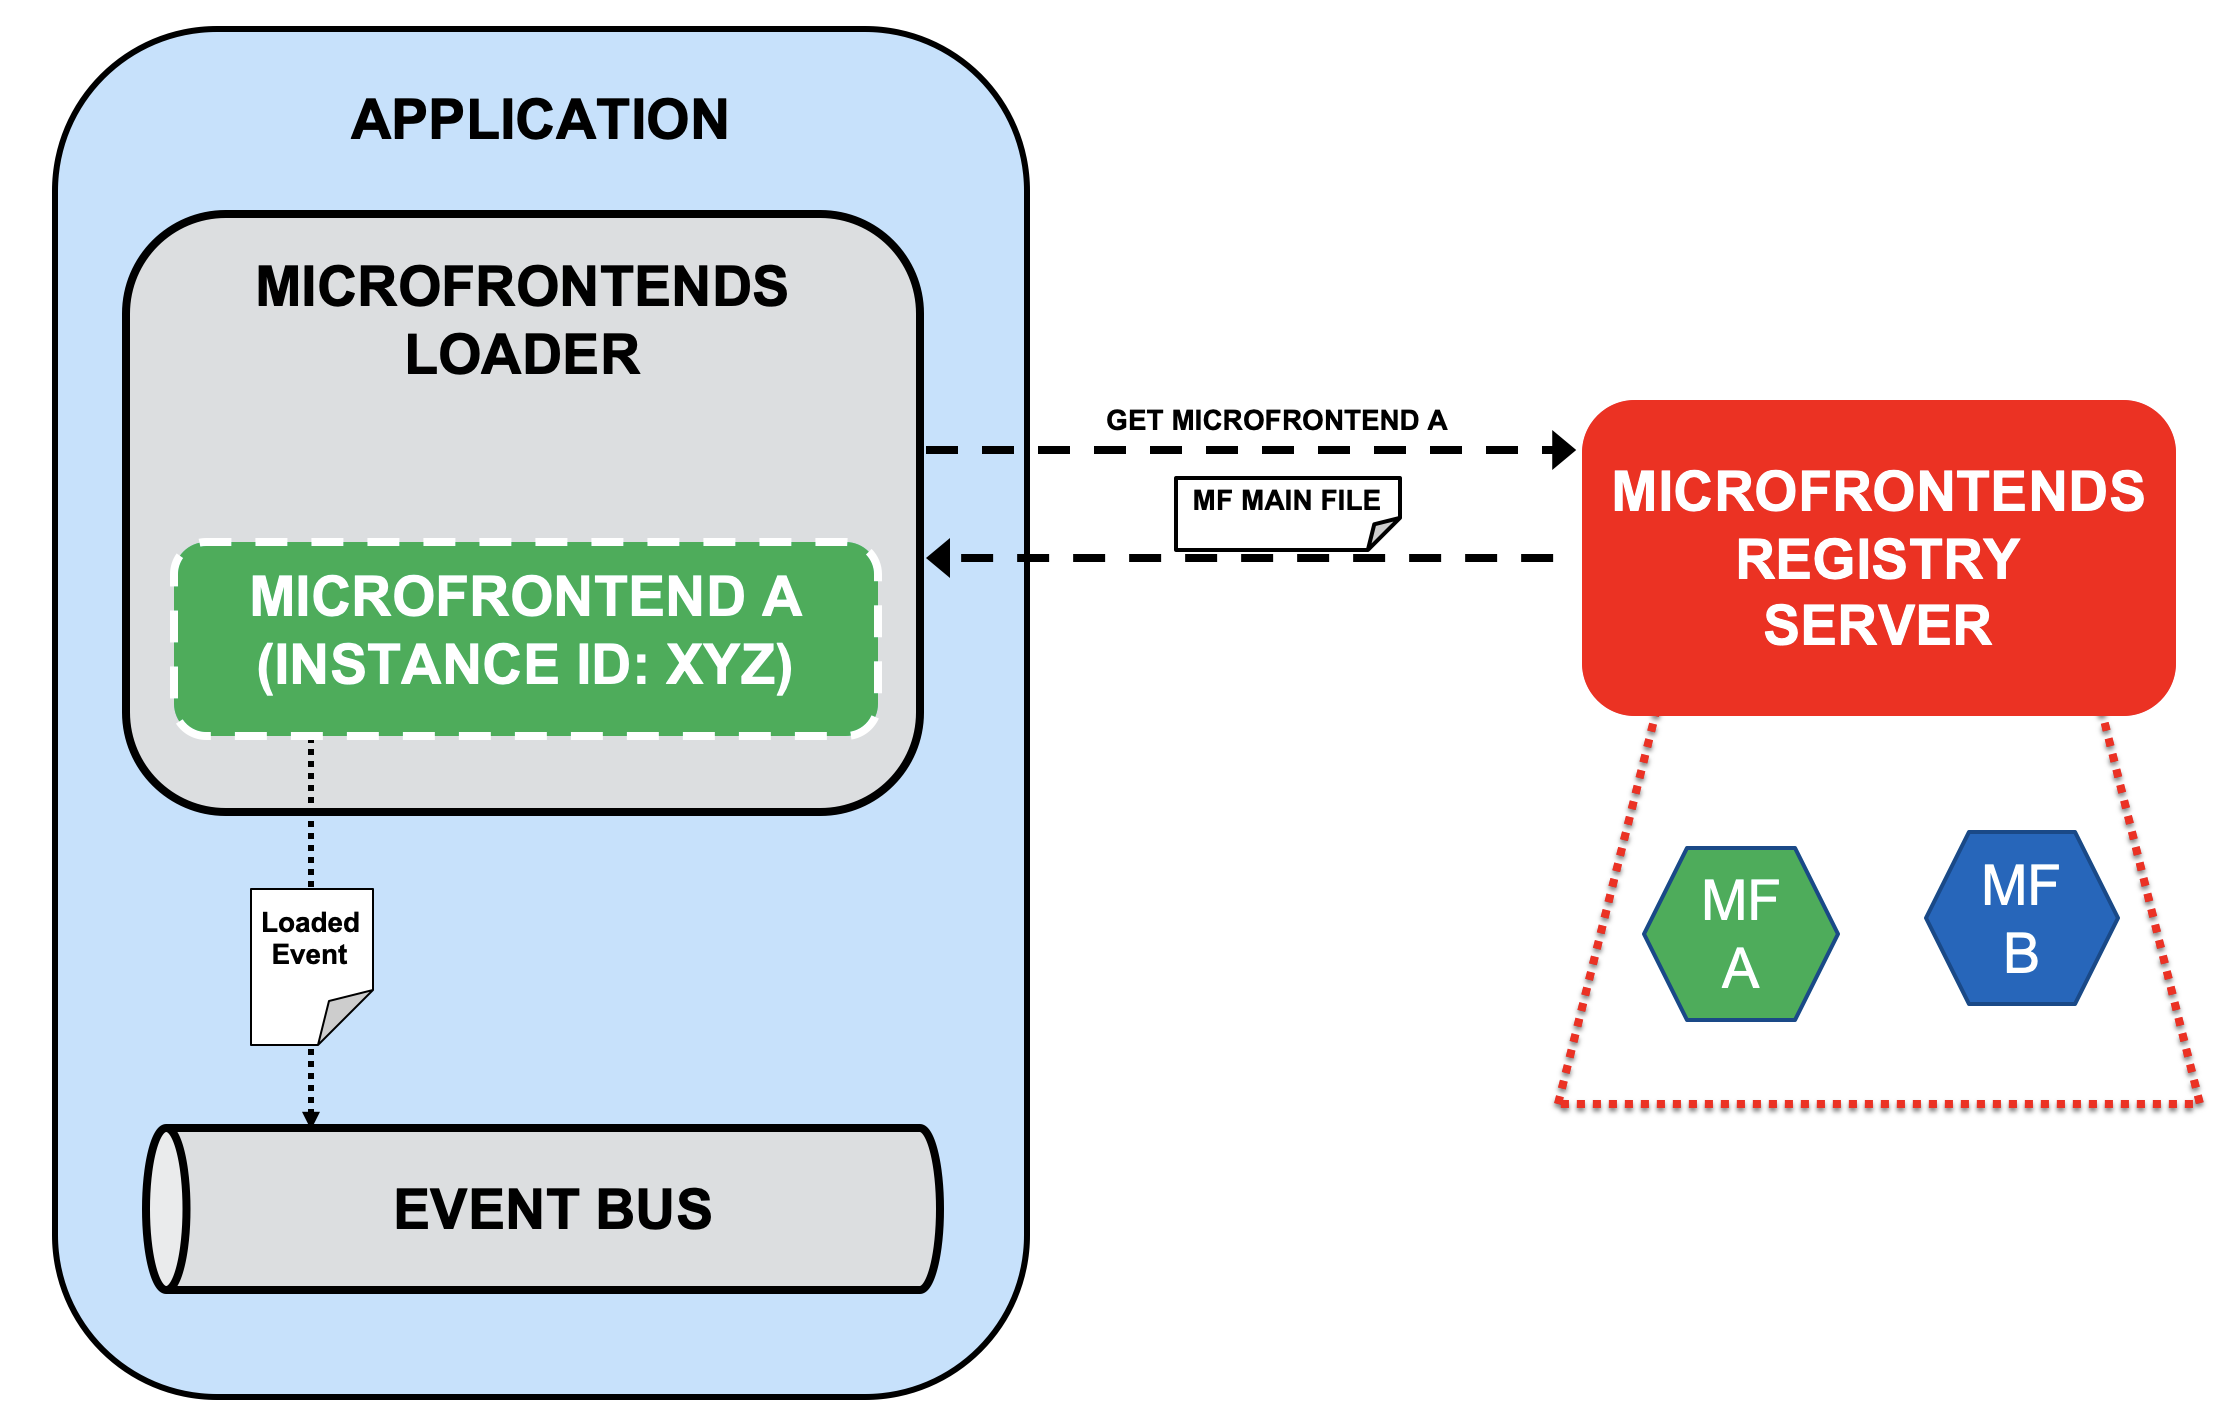
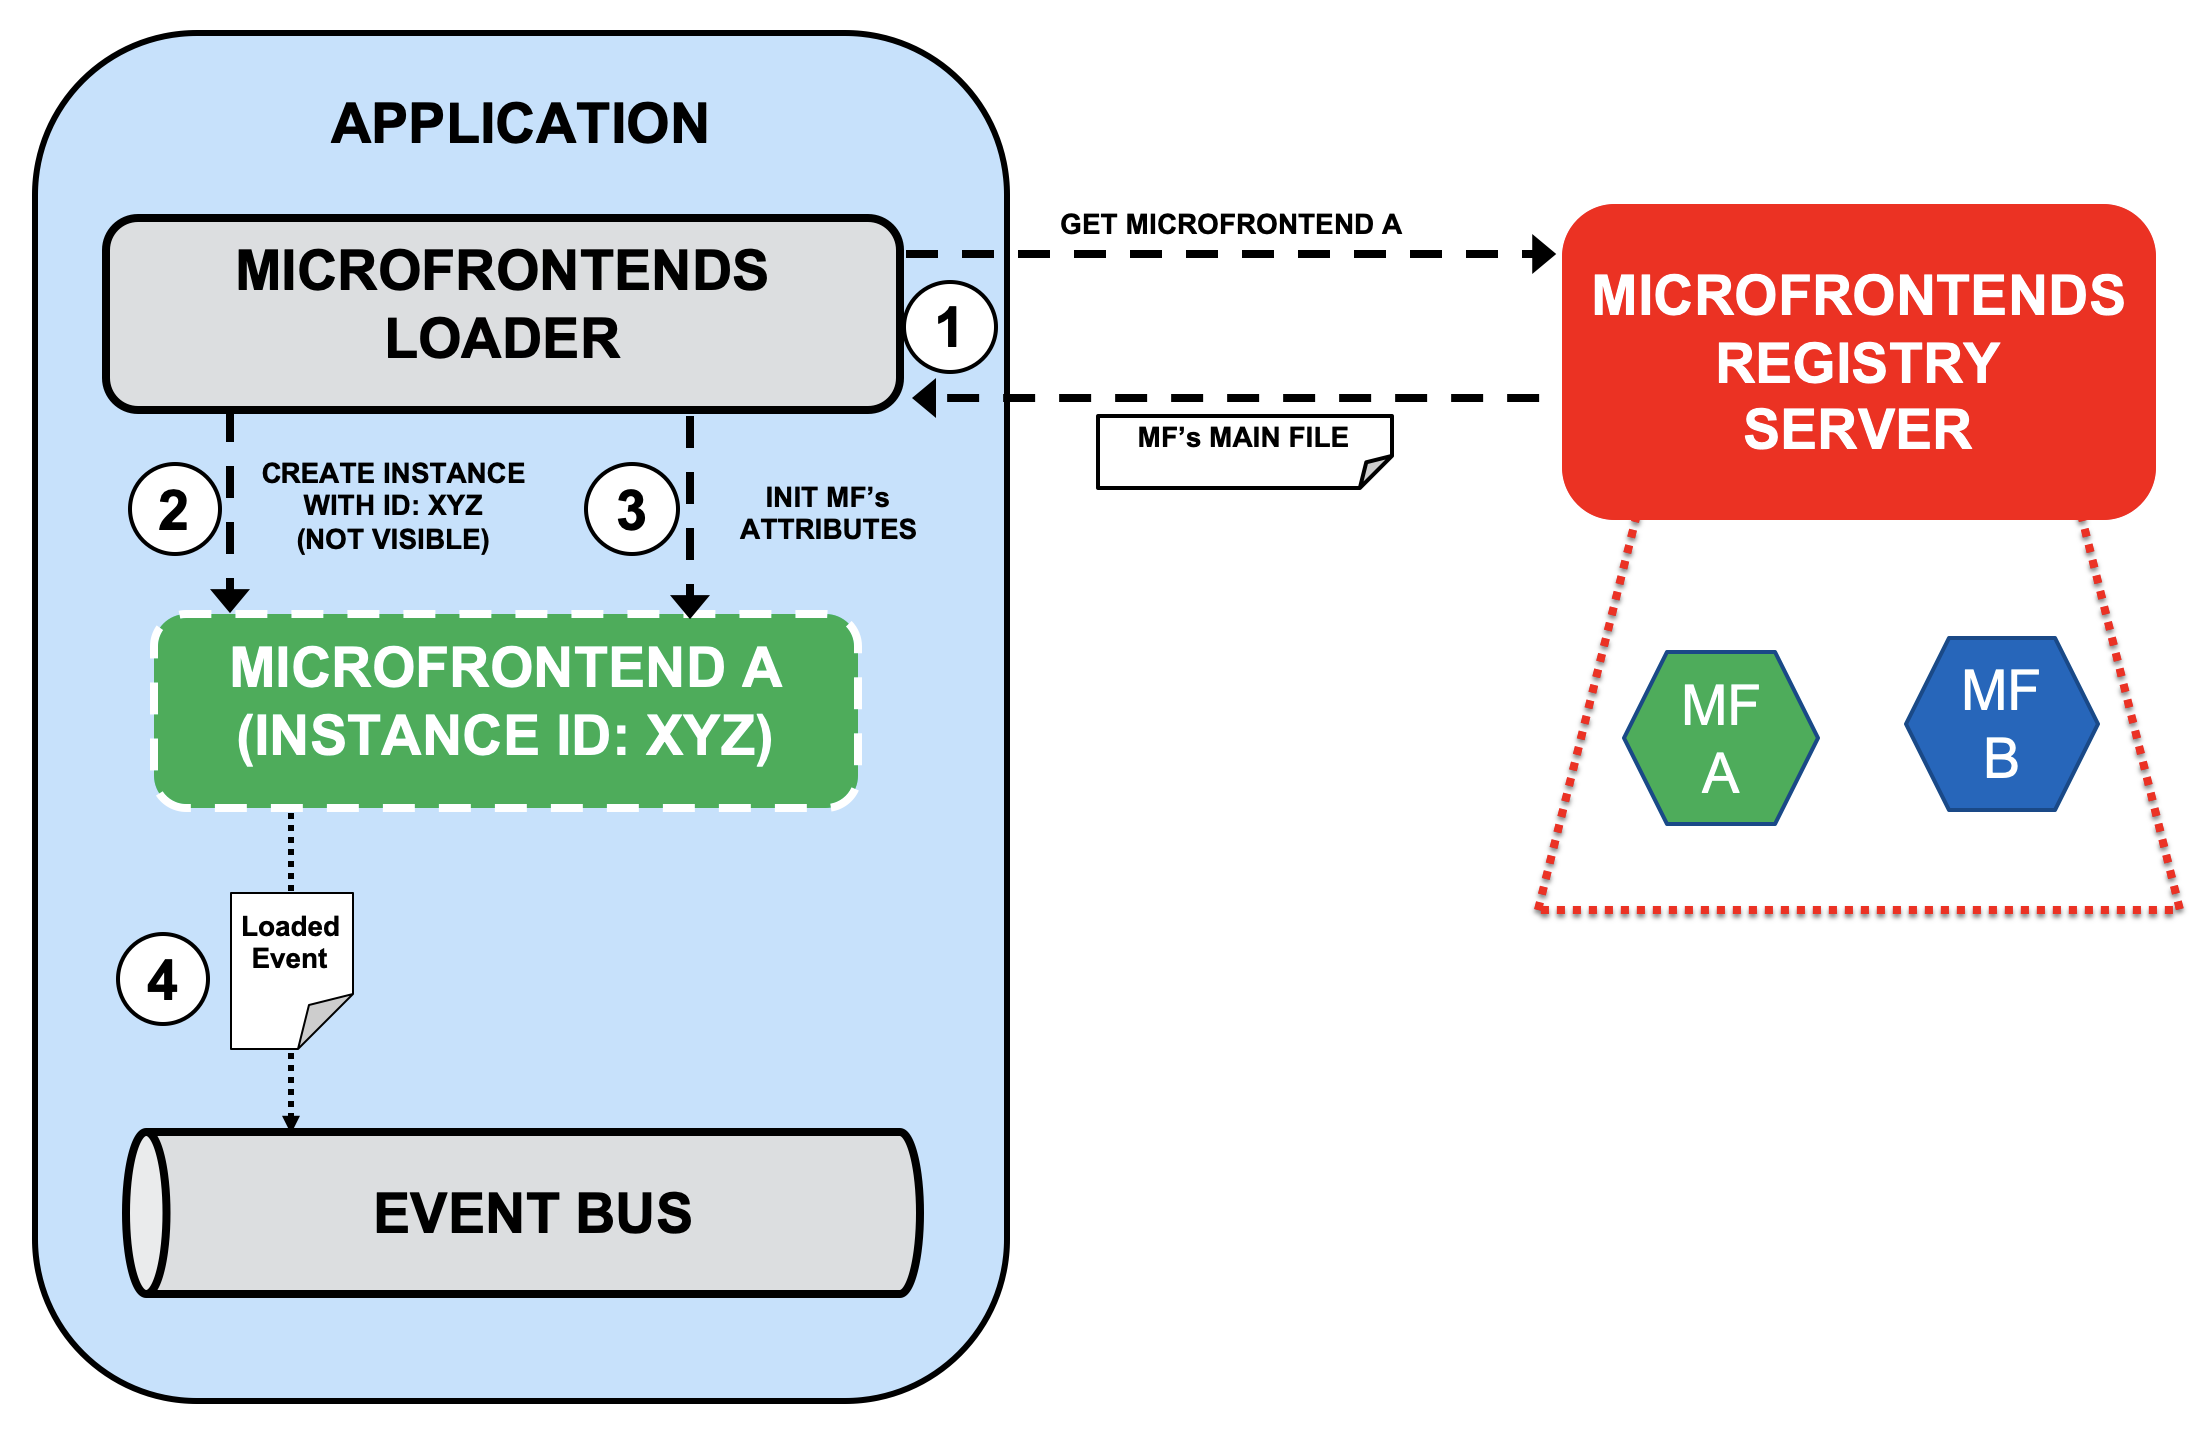
Microfrontends - update

diff --git a/_posts/2019-08-15-microfrontends.md b/_posts/2019-08-15-microfrontends.md
@@ -241,6 +241,8 @@ Like some architecture styles, it's important to set:
 
 Let's try to apply microservices principles to frontend world:
 
+<br>
+
 ### <a name="compservices">Componentization via Services</a>
 
 If you are using a modern frontend framework probably you're used to build UI components, package them into libraries and publish them in the NPM (or bower) repository. This means that every application uses these components by integrating them into the main application in build time and packaging all together in an unique package (although you are using lazy loading and components are loaded on demand). 
@@ -275,7 +277,7 @@ In Maven, you also find dependencies with "provided" and "runtime" scope. Depend
 
 "Runtime" scope is similar to the target of Microfrontend: not need dependencies at build phase, not package all the pieces within the parent application but being consumed at runtime
 
-
+<br>
 
 ### <a name="businesscap">Organized around Business Capabilities</a>
 
@@ -291,7 +293,7 @@ When I talk about "business need" I mean "business need" within a company not wi
 
 It's true that in the most of companies there isn't a green field and all the business needs are not always known when you are building applications. By this reason I recommend a "monolith first approach" and a set of business owners that have the global knowledge of the set of applications built in the company in order to determine when it's necessary  to extract a concrete functionality to a Microfrontend. 
 
-
+<br>
 
 ### <a name="products">Products not Projects</a>
 
@@ -309,7 +311,7 @@ As the Microfrontend also encapsulates backend API calls and the user of the Mic
 
 Besides that, several versions of a Microfrontend could be published and be consumed, so the team also has to keep in mind this aspect and managing the retirement of versions out-of-date.
 
-
+<br>
 
 ### <a name="endpoints">Smart endpoints and dumb pipes</a>
 
@@ -321,7 +323,7 @@ Microfrontends communications must be supported by DOM standards: html tags, att
 
 Microfrontends have a defined responsibility, that means that a Microfrontend is designed to solve a concrete business need not a set of them. 
 
-
+<br>
 
 ### <a name="governance">Decentralized Governance</a>
 
@@ -346,7 +348,7 @@ This doesn't mean that there is no Governance. Governace means principles, rules
 
 Similar with Security concerns. This needs to be defined globally and teams in charge of microfrontends must follow the patterns and rules.
 
-
+<br>
 
 ### <a name="data">Decentralized Data Management</a>
 
@@ -363,7 +365,7 @@ Microfrontends need to know if the user is athenticated and how to get the token
 - The main app intercepts all the backend calls and adds the security headers so microfrontends don't have to implement it
 - Microfrontends are allowed to get the tokens received when the user is authenticated and they are responsible for generating the security headers they need to access to the backend services.
 
-
+<br>
 
 ### <a name="infrastructure">Infrastructure Automation</a>
 
@@ -373,7 +375,7 @@ Remember that the key principle is autonomy so every microfrontend has to be its
 
 Teams will also manage their microfrontends in production environments, releasing new versions and maintaining current ones.
 
-
+<br>
 
 ### <a name="failure">Design for failure</a>
 
@@ -387,7 +389,7 @@ As I said, Microfrontends must be associated to a concrete runtime lifecycle to 
 
 Besides that, microfrontends must define a contract in which both input attributes and output events (even exceptions) should be defined. With these tools we can react to failure situations and manage them.
 
-
+<br>
 
 ### <a name="evolutionary">Evolutionary Design</a>
 
@@ -396,6 +398,8 @@ Working with microfrontends means working with components loaded in runtime, tot
 But thinking about how to divide the system is crucial, not considering just one application but a set of domains, subdomains and applications so that microfronteds could be consumed by several applications. 
 
 Build a microfrontend just for being consumed in runtime instead building the same functionality inside the application or in a package, could make sense if that business component has many changes or if it should be implemented in other technology, but if you don't have these kind of problems, only are adding complexity. 
+
+<br>
 
 <br>
 
@@ -450,6 +454,8 @@ This approach isn't the ideal one because there is a "strong" coupling between t
 
 > The target is being able to consume fully functional components like services without packaging them inside the application
 
+<br>
+
 # Visual concerns 
 
 When you listen the term "Microfrontend" for the first time maybe you wonder:
@@ -490,16 +496,16 @@ When we are working with components that are integrated within an application to
 
 I'm not going to set an standard lifecyle because I think this has to be customized depending on the company but I think at least two phases are necessary: loaded and ready. This phases are notified to the main application (and the rest component connected to the event bus) by events.
 
-
+<br>
 
 #### Loaded event
 
 When a Microfrontend is requested to the Microfrontend Registry, the main file of the Microfrontend is delivered to the application. In this moment, 
 
-- the Microfrontend main file (usually a Javascript file) is loaded within the main application, 
-- an id is assigned by the Microfrontend Loader Component in order to identify a unique instance of the Microfrontend 
-- Microfrontend attributes are initialized
-- A "microfrontend loaded event" containing information about the Microfrontend is fired to the Event Bus
+- the Microfrontend main file (usually a Javascript file) is loaded within the main application (1), 
+- an id is assigned by the Microfrontend Loader Component in order to identify a unique instance of the Microfrontend (2)
+- Microfrontend attributes are initialized (3)
+- A "microfrontend loaded event" containing information about the Microfrontend is fired to the Event Bus (4)
 
 ![loaded event](/images/microfrontends/loaded_event.png)
 
@@ -507,27 +513,35 @@ The id assigned to the Microfrontend is very important because it will be used t
 
 Scenarios in which more than one instance of a Microfrontend could be possible. Imagine for instance that a Microfrontend containing information about a product is available and it's necessary to implement a feature consisting on compare two products. The application could load two instances of the same Microfrontend and passing different products ids to each one. 
 
-
+<br>
 
 #### Ready event
 
-Once the Microfrontend is loaded, the main file of the Microfrontend will begin to request other files (language files, config files, assets, etc) and it could be make some calls to the API in order to get the data necessary to work.
+Once the Microfrontend is loaded, 
 
-When the Microfrontend has loaded all the necessary files and the API calls in order to get the initial data to be shown, the Microfrontend is ready. In this moment, the application could make the microfrontend visible and the final user could interact with it. 
-
-In this moment, the Microfrontend will fire a "Microfrontend Ready Event" containing information about the Microfrontend. 
+- the main file of the Microfrontend will begin to request other files (language files, config files, assets, etc) to the Registry Server (1)
+- some calls to the API could be made in order to get the data necessary to work (2)
+- the Microfrontend is ready and throws a "ready event" containing its ID (3)
+- the "ready event" is catched by the Loader and checks the ID contained in the "ready event" (4)
+- the Loader makes the microfrontend instance visible (5)
 
 ![ready event](/images/microfrontends/ready_event.png)
 
-
+<br>
 
 #### Health check
 
 When the application is composed by independent (business) components, sometimes some component could fail or not work as expected. In these scenarios, it's so useful not showing those components if they aren't work well. This capability can be implemented managing status events (loaded, ready) so that, initially the Microfrontends will be hidden until the ready events associated to them are catched. 
 
-There is a capability that could be implemented by the Microfrontend Loader. Once the Microfrontend Loader has received the main file of the Microfrontend and it has generated an ID for this Microfrontend, it waits for a ready event fired by this Microfrontend (containing the ID generated). When this event is received, the Microfrontend Loader shows the Microfrontend. If the event isn't received in a configured number of seconds, the Microfrontend Loader could show a default component, another Microfrontend or do nothing visible for the user and log the error to the backend layer in order to be analyzed
+Once the Microfrontend Loader has received the main file of the Microfrontend and it has generated an ID for this Microfrontend, it waits for a ready event fired by this Microfrontend (containing the ID generated). When this event is received, the Microfrontend Loader shows the Microfrontend. 
+
+If the Microfrontend can not fire the ready event (1) for some reason (error getting initial data for instance) or the event isn't received in a configured number of seconds (1), the Microfrontend Loader could show a default component (2), another Microfrontend or do nothing visible for the user and log the error to the backend layer in order to be analyzed
+
+![healthcheck](/images/microfrontends/healthcheck.png)
 
 By this way, the user doesn't realize that something could be wrong. For instance, think about in sites like Amazon where some components don't appear sometimes but you don't perceive that anthing isn't working well.
+
+<br>
 
 # Microfrontends is a company decission
 
@@ -560,7 +574,7 @@ So, aspects like the following ones are fundamental in this kind of architecture
 
 The way you build your software should be the way more suitable for your company and its characteristics: size, history, employees, maturity,...,etc.
 
-
+<br>
 
 ## Where's the limit?
 
@@ -574,7 +588,7 @@ Depending of how the company is organized it may be more feasible or not. Theref
 
 Microfrontends' style is not dividing frontend applications into pieces and managing backend calls within them. Microfrontends' style is to provide ownership and autonomy throughout full business functionalities. 
 
-
+<br>
 
 ## It's not black or white. Be flexible and evolvable 
 
@@ -598,7 +612,7 @@ If there are several applications that don't share any business feature, are ver
 
 If you apply this strategy, the worst scenary could be that the technology used to build your applications doesn't allows to expose components as nom packages, web components or similar in order to be distributed or consumed by an HTTP request. But, if you have built a well designed applications and well tested, you will be able to build a new component in a different technology in order to be able to distribute those components requiered by others applications.
 
-
+<br>
 
 ## A silver bullet? 
 
